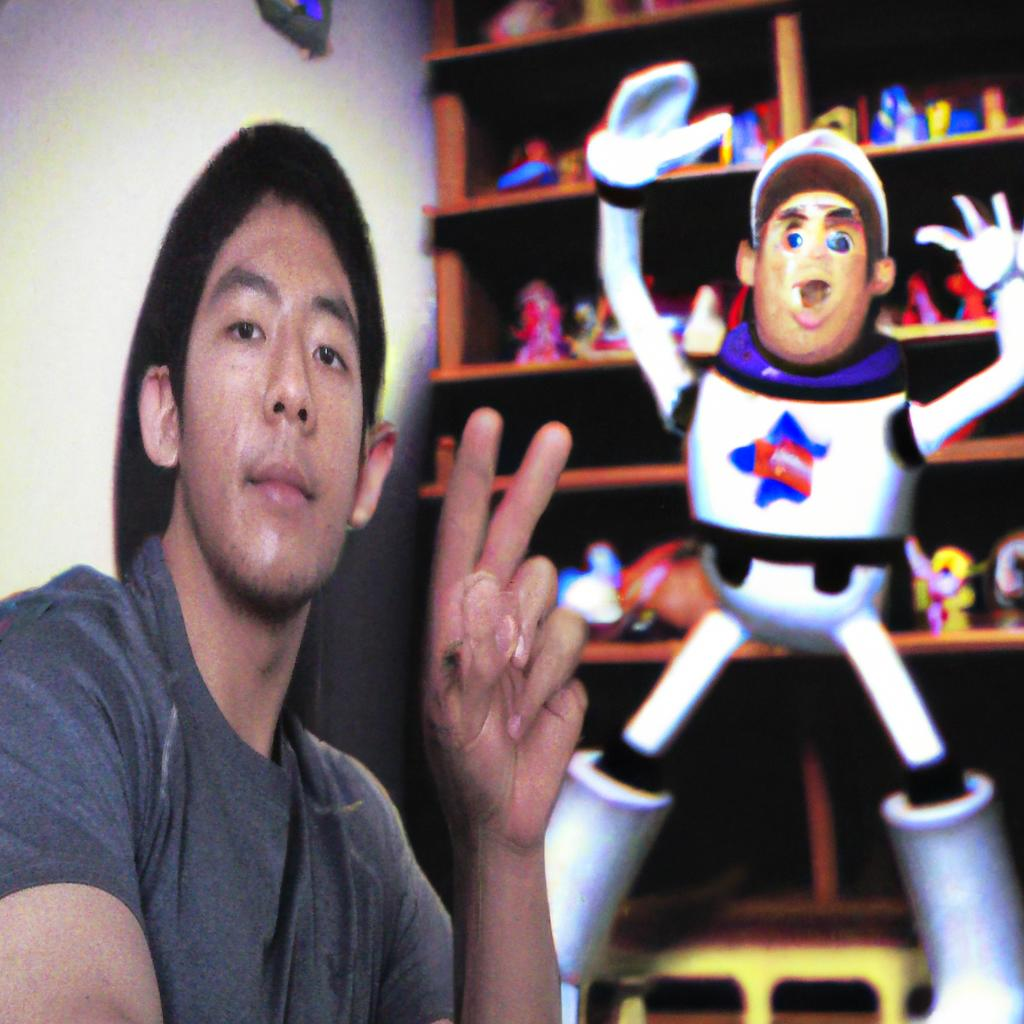
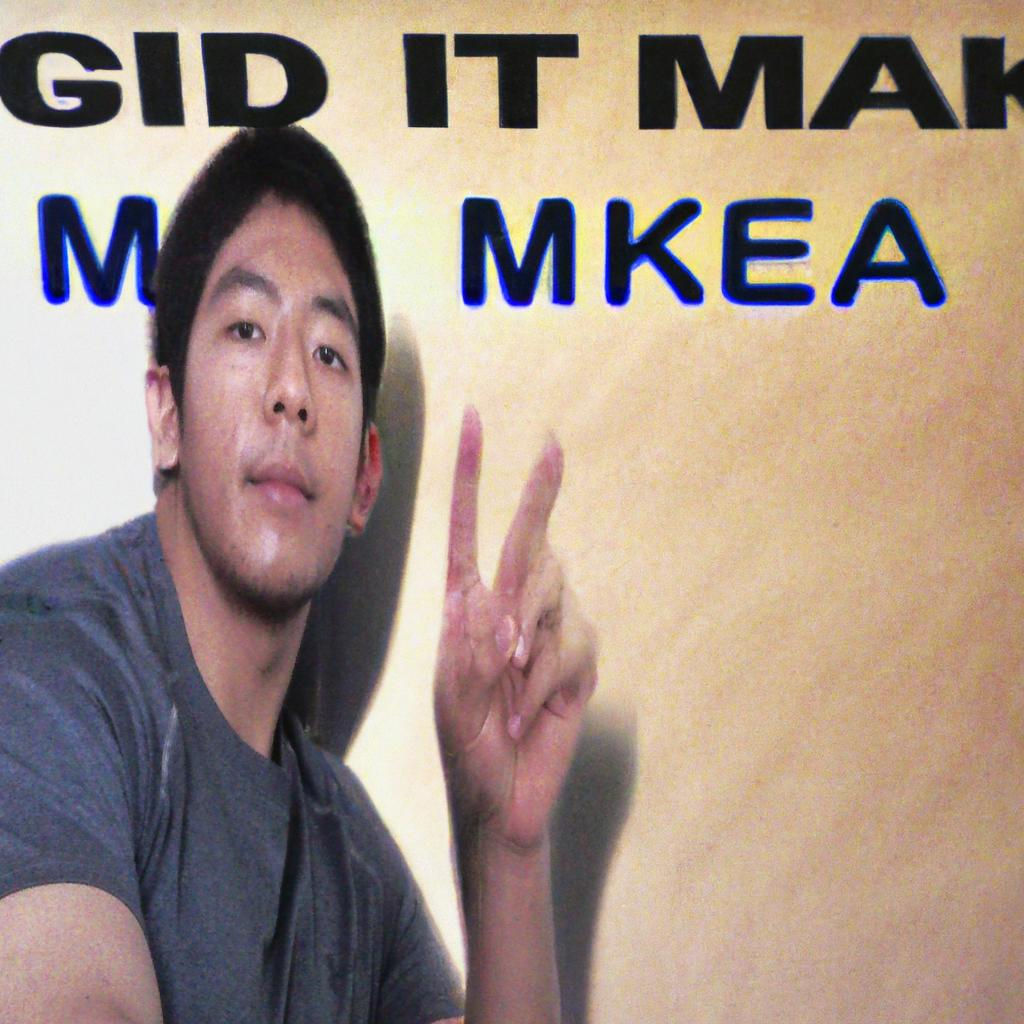
alternative option

diff --git a/gpttest.py b/gpttest.py
@@ -63,7 +63,16 @@ def edit_image(prompt):
     image_url = response['data'][0]['url']
 
     return image_url
-
+def alternatives():
+    response = openai.Image.create_variation(
+    image=formatImage("./images/test_image.jpg"),
+    n=1,
+    size="1024x1024"
+    )
+    image_url = response['data'][0]['url']
+    response = requests.get(image_url)
+    img = Image.open(BytesIO(response.content))
+    img.show()
 
 
 def try_message():
@@ -73,6 +82,7 @@ def try_message():
      
 def try_image():
     input_string = input("Prompt me:")
+    to_alt = input("Do you want an alternative too? Y/N ")
     reply = generate_image(input_string)
     # URL of the generated image
     url = reply
@@ -86,6 +96,9 @@ def try_image():
     # Save the image to a directory
     img.save("./images/test_image.jpg")
     img.show()
+    if('N' not in to_alt or 'n' not in to_alt):
+        img.close()
+        alternatives()
 
 
 def try_edit_image():
@@ -100,11 +113,12 @@ def try_edit_image():
     # Save the image to a directory
     img.save("./images/editted.jpg")
     img.show()
+    
      
      
 def main():
-     try_edit_image()
-#    try_image()
+    #  try_edit_image()
+   try_image()
 #    try_message()
 
 if __name__ == "__main__":
